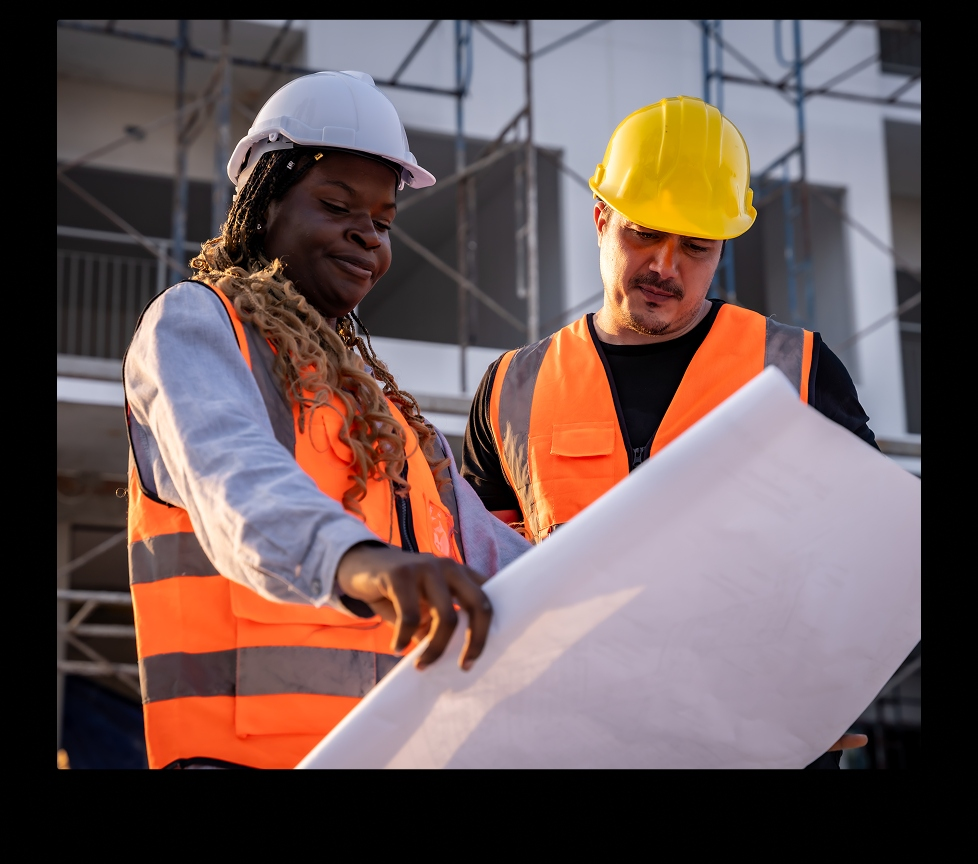
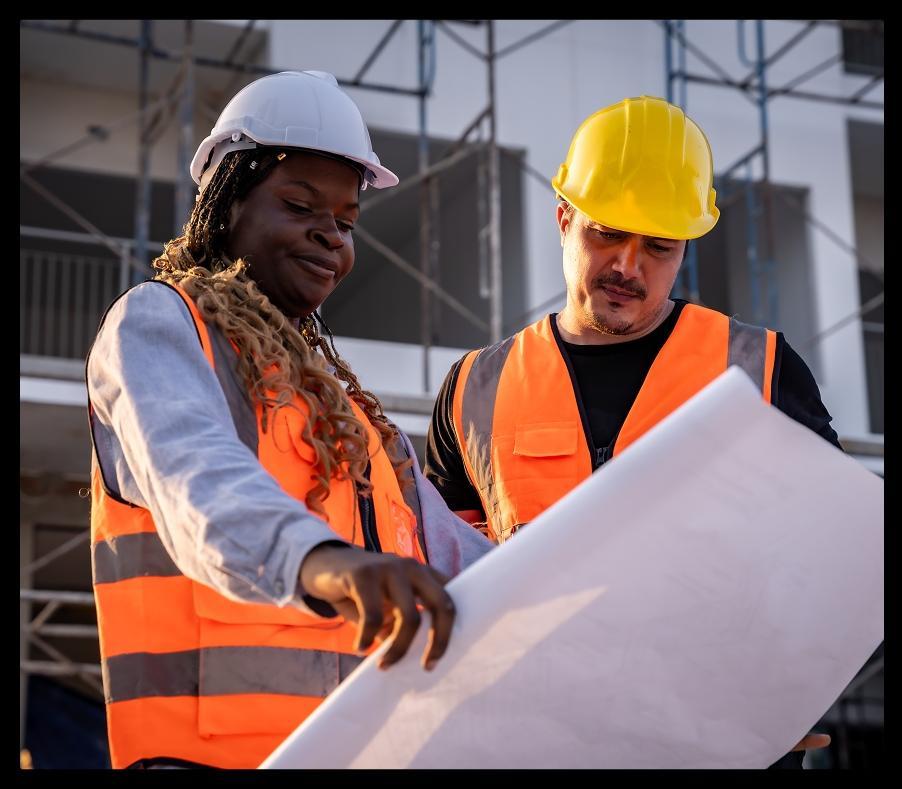
Update hero layout with precise opacity and animation

diff --git a/src/pages/HomePage.jsx b/src/pages/HomePage.jsx
@@ -3,6 +3,8 @@ import { motion } from "framer-motion";
 import { ORANGE, BLACK, DARK, CARD, BORDER, TEXT, MUTED, SUBTLE } from "../theme";
 import { Reveal } from "../components/Reveal";
 import aboutWorkersImg from "../assets/images/about-workers.jpg";
+import partnerWorkersImg from "../assets/images/partner-workers.jpg";
+import gambaltHeroImg from "../assets/images/gambalt-hero.jpg";
 
 export const HomePage = ({ setPage }) => {
   const stats = [{ n: "15+", l: "Years Experience" }, { n: "250+", l: "Projects Completed" }, { n: "50+", l: "Active Projects" }, { n: "100%", l: "Safety Record" }];
@@ -45,36 +47,59 @@ export const HomePage = ({ setPage }) => {
   return (
     <div>
       {/* Hero */}
-      <div className="hero-bg" style={{ paddingTop: 160, paddingBottom: 64 }}>
-        <div className="hero-shape hero-shape-tr" />
-        <div className="hero-shape hero-shape-br" />
-        <div className="hero-shape hero-shape-left-orange" />
-        <div className="hero-shape hero-shape-left-dark" />
-        <div className="hero-ruler" />
-        <div className="hero-circle"><div style={{width:4, height:4, borderRadius:'50%', background:ORANGE, margin:'auto', marginTop:3}}/></div>
-        <div className="hero-scroll-btn" onClick={() => window.scrollTo({top: 800, behavior: 'smooth'})}>
+      <div className="hero-bg" style={{ paddingTop: 160, paddingBottom: 64, backgroundColor: "#000" }}>
+        {/* Animated Background Image */}
+        <div 
+          className="hero-ken-burns" 
+          style={{ 
+            position: "absolute", 
+            inset: -20, 
+            backgroundSize: "cover", 
+            backgroundPosition: "center", 
+            backgroundImage: `url(${gambaltHeroImg})`, 
+            zIndex: 0 
+          }} 
+        />
+
+        {/* Left side text background dark gradient - fades before crossing the black line */}
+        <div style={{ position: "absolute", inset: 0, background: "linear-gradient(to right, rgba(10,10,10,0.95) 0%, rgba(10,10,10,0.7) 40%, transparent 60%)", zIndex: 1 }} />
+        
+        {/* Solid Black chevron line (no overlay/transparency effect) */}
+        <div style={{ position: "absolute", inset: 0, background: "#111", clipPath: "polygon(58% 0, 62% 0, 49% 50%, 62% 100%, 58% 100%, 45% 50%)", zIndex: 1 }} />
+        
+        {/* Orange right-hand side overlay (Primary Color - transparent overlay effect) */}
+        <div style={{ position: "absolute", inset: 0, background: "rgba(232, 84, 26, 0.3)", clipPath: "polygon(100% 0, 62% 0, 49% 50%, 62% 100%, 100% 100%)", zIndex: 1 }} />
+
+        <div className="hero-scroll-btn" onClick={() => window.scrollTo({top: 800, behavior: 'smooth'})} style={{ zIndex: 2 }}>
           <svg width="24" height="24" viewBox="0 0 24 24" fill="none" stroke="currentColor" strokeWidth="2" strokeLinecap="round" strokeLinejoin="round"><path d="M12 5v14M19 12l-7 7-7-7"/></svg>
         </div>
+        
         <div className="container" style={{ position: "relative", zIndex: 2 }}>
-          <div style={{ maxWidth: 700 }}>
+          <div style={{ maxWidth: 640 }}>
             <Reveal x={-30}>
-              <div className="orange-tag" style={{ marginBottom: 20 }}>BUILDING NIGERIA'S INFRASTRUCTURE</div>
+              <div style={{ display: "flex", flexDirection: "column", gap: 12, marginBottom: 20 }}>
+                <div style={{ width: 24, height: 24, borderRadius: "50%", border: `1px solid rgba(232,84,26,0.3)`, display: "flex", alignItems: "center", justifyContent: "center" }}>
+                   <div style={{ width: 6, height: 6, borderRadius: "50%", background: ORANGE }}></div>
+                </div>
+                <div style={{ color: "#FFF", fontSize: 13, fontWeight: 700, letterSpacing: 2, textTransform: "uppercase" }}>
+                  GREAT EXPERIENCE IN BUILDING
+                </div>
+              </div>
             </Reveal>
             <Reveal delay={0.2} x={-50}>
-              <h1 className="heading-font hero-title" style={{ fontSize: 80, fontWeight: 900, lineHeight: 0.95, textTransform: "uppercase", marginBottom: 24, color: "#fff" }}>
-                BUILDING<br />NIGERIA'S<br /><span style={{ color: ORANGE }}>FUTURE TODAY</span>
+              <h1 className="heading-font hero-title" style={{ fontSize: 72, fontWeight: 900, lineHeight: 1.05, marginBottom: 24, color: "#fff", textTransform: "uppercase" }}>
+                We Building<br />For A Better<br />Futures
               </h1>
             </Reveal>
             <Reveal delay={0.4} y={20}>
-              <p className="hero-subtitle-fix" style={{ fontSize: 16, maxWidth: 480, lineHeight: 1.7, marginBottom: 36 }}>
-                Gambalt is a premier civil engineering and infrastructure consultancy delivering industrial-strength solutions across Nigeria. We focus on long-term structural integrity and seamless project execution.
+              <p style={{ fontSize: 16, color: "rgba(255,255,255,0.8)", lineHeight: 1.7, marginBottom: 36, maxWidth: 500 }}>
+                It is a long established fact that a reader will be distracted the readable content of a page when looking at layout the point of using
               </p>
             </Reveal>
             <Reveal delay={0.6} y={10}>
-              <div style={{ display: "flex", gap: 16, flexWrap: "wrap" }}>
-                <button className="btn-orange" onClick={() => setPage("contact")}>CONSULTATION →</button>
-                <button className="btn-outline" onClick={() => setPage("quote")}>REQUEST A QUOTE</button>
-              </div>
+              <button className="btn-orange" onClick={() => setPage("contact")} style={{ padding: "16px 36px", fontSize: 14 }}>
+                LET'S GET STARTED <span style={{ marginLeft: 8 }}>→</span>
+              </button>
             </Reveal>
           </div>
           <motion.div 
@@ -215,13 +240,16 @@ export const HomePage = ({ setPage }) => {
       </section>
 
       {/* Why Partner */}
-      <section style={{ background: DARK, padding: "80px 0" }}>
+      <section style={{ background: DARK, padding: "100px 0" }}>
         <div className="container">
-          <div style={{ display: "grid", gridTemplateColumns: "1fr 1fr", gap: 64, alignItems: "center" }} className="grid-2">
+          <div style={{ display: "grid", gridTemplateColumns: "1.1fr 0.9fr", gap: 80, alignItems: "center" }} className="grid-2">
             <div>
               <Reveal x={-30}>
-                <div className="section-tag">THE GAMBALT ADVANTAGE</div>
-                <h2 className="heading-font" style={{ fontSize: 48, fontWeight: 900, lineHeight: 1, textTransform: "uppercase", marginBottom: 32, color: TEXT }}>
+                <div style={{ display: "flex", alignItems: "center", gap: 12, marginBottom: 16, color: ORANGE, fontSize: 12, fontWeight: 700, letterSpacing: 2 }}>
+                  <div style={{ width: 40, height: 2, background: ORANGE }} />
+                  THE GAMBALT ADVANTAGE
+                </div>
+                <h2 className="heading-font" style={{ fontSize: 48, fontWeight: 900, lineHeight: 1.1, textTransform: "uppercase", marginBottom: 40, color: TEXT }}>
                   WHY PARTNER WITH <span style={{ color: ORANGE }}>GAMBALT</span>
                 </h2>
               </Reveal>
@@ -232,15 +260,50 @@ export const HomePage = ({ setPage }) => {
                 viewport={{ once: true }}
               >
                 {[
-                  { title: "Government-Ready Vendor", desc: "Fully registered with relevant government bodies, making us an ideal choice for municipal, state, and federal infrastructure contracts." },
-                  { title: "Heavy Machinery Fleet", desc: "Unlike firms that rely on rentals, Gambalt owns a massive fleet of heavy construction and infrastructure equipment." },
-                  { title: "Uncompromising Safety", desc: "Zero-incident culture: every site follows strict HSE standards and our project managers prioritize safety at every level." },
-                ].map(r => (
-                  <motion.div key={r.title} variants={itemVariants} style={{ display: "flex", gap: 16, marginBottom: 28 }}>
-                    <div style={{ width: 4, background: ORANGE, flexShrink: 0 }} />
+                  { 
+                    title: "GOVERNMENT-READY VENDOR", 
+                    desc: "Fully compliant, licensed, and vetted to handle large-scale municipal, state, and federal infrastructure contracts with complete transparency.",
+                    icon: (
+                      <svg width="24" height="24" viewBox="0 0 24 24" fill="none" stroke={ORANGE} strokeWidth="2" strokeLinecap="round" strokeLinejoin="round">
+                        <path d="M14 2H6a2 2 0 0 0-2 2v16a2 2 0 0 0 2 2h12a2 2 0 0 0 2-2V8z"></path>
+                        <polyline points="14 2 14 8 20 8"></polyline>
+                        <line x1="16" y1="13" x2="8" y2="13"></line>
+                        <line x1="16" y1="17" x2="8" y2="17"></line>
+                        <polyline points="10 9 9 9 8 9"></polyline>
+                      </svg>
+                    )
+                  },
+                  { 
+                    title: "HEAVY MACHINERY FLEET", 
+                    desc: "We own and operate a massive fleet of modern excavators, cranes, graders, and loaders, eliminating rental delays and cutting costs.",
+                    icon: (
+                      <svg width="24" height="24" viewBox="0 0 24 24" fill="none" stroke={ORANGE} strokeWidth="2" strokeLinecap="round" strokeLinejoin="round">
+                        <rect x="3" y="3" width="18" height="18" rx="2" ry="2"></rect>
+                        <circle cx="8.5" cy="8.5" r="1.5"></circle>
+                        <polyline points="21 15 16 10 5 21"></polyline>
+                      </svg>
+                    )
+                  },
+                  { 
+                    title: "UNCOMPROMISING SAFETY", 
+                    desc: "Industrial-grade safety protocols enforced on every site. Zero compromises when it comes to the wellbeing of our workers and the structural integrity of the build.",
+                    icon: (
+                      <svg width="24" height="24" viewBox="0 0 24 24" fill="none" stroke={ORANGE} strokeWidth="2" strokeLinecap="round" strokeLinejoin="round">
+                        <path d="M20 18v-3c0-4.4-3.6-8-8-8s-8 3.6-8 8v3"/>
+                        <path d="M12 7V3"/>
+                        <path d="M3 18h18"/>
+                        <path d="M21 18v2H3v-2"/>
+                      </svg>
+                    )
+                  },
+                ].map((r, i) => (
+                  <motion.div key={r.title} variants={itemVariants} style={{ display: "flex", gap: 24, marginBottom: 32 }}>
+                    <div style={{ width: 64, height: 64, background: "rgba(255,255,255,0.03)", border: "1px solid rgba(255,255,255,0.1)", display: "flex", alignItems: "center", justifyContent: "center", flexShrink: 0 }}>
+                      {r.icon}
+                    </div>
                     <div>
-                      <h4 className="heading-font" style={{ fontSize: 16, fontWeight: 700, textTransform: "uppercase", color: TEXT, marginBottom: 6 }}>{r.title}</h4>
-                      <p style={{ fontSize: 13, color: SUBTLE, lineHeight: 1.6 }}>{r.desc}</p>
+                      <h4 className="heading-font" style={{ fontSize: 18, fontWeight: 700, textTransform: "uppercase", color: TEXT, marginBottom: 8 }}>{r.title}</h4>
+                      <p style={{ fontSize: 14, color: SUBTLE, lineHeight: 1.6 }}>{r.desc}</p>
                     </div>
                   </motion.div>
                 ))}
@@ -248,17 +311,30 @@ export const HomePage = ({ setPage }) => {
             </div>
             <Reveal scale={0.95}>
               <div style={{ position: "relative" }}>
-                <img src="https://images.unsplash.com/photo-1581094488379-6a10d4e6f5f3?w=700&q=80" alt="team" style={{ width: "100%", height: 420, objectFit: "cover" }} />
+                {/* Decorative subtle circle behind the quote box */}
+                <div style={{ position: "absolute", bottom: -60, left: -80, width: 200, height: 200, borderRadius: "50%", background: "rgba(255,255,255,0.02)", zIndex: 0 }} />
+                
+                <img src={partnerWorkersImg} alt="Gambalt partners" style={{ width: "100%", height: 500, objectFit: "cover", position: "relative", zIndex: 1, border: `1px solid ${BORDER}` }} />
+                
                 <motion.div 
-                  initial={{ opacity: 0, x: 20 }}
-                  whileInView={{ opacity: 1, x: 0 }}
+                  initial={{ opacity: 0, x: -20, y: 20 }}
+                  whileInView={{ opacity: 1, x: 0, y: 0 }}
                   transition={{ delay: 0.5 }}
-                  style={{ position: "absolute", bottom: 24, left: 24, background: CARD, border: `1px solid ${BORDER}`, padding: "20px 24px", maxWidth: 320 }}
+                  style={{ position: "absolute", bottom: -24, left: -40, background: ORANGE, padding: "32px", maxWidth: 360, zIndex: 10, boxShadow: "0 20px 40px rgba(0,0,0,0.5)" }}
                 >
-                  <div style={{ fontSize: 13, color: MUTED, fontStyle: "italic", lineHeight: 1.6, marginBottom: 12 }}>
-                    "We don't just build structures — we build the foundations the Nigerian economy depends on."
+                  <div style={{ fontSize: 64, color: "rgba(255,255,255,0.2)", lineHeight: 0.5, marginBottom: 12, fontWeight: 900, fontFamily: "serif" }}>"</div>
+                  <div style={{ fontSize: 16, color: "#FFF", fontWeight: 500, lineHeight: 1.6, marginBottom: 24 }}>
+                    "We don't just build structures; we build the foundations for Nigeria's economic growth."
                   </div>
-                  <div style={{ color: ORANGE, fontSize: 12, fontWeight: 700 }}>ENGR. SAMUEL BJO — MANAGING DIRECTOR</div>
+                  <div style={{ display: "flex", alignItems: "center", gap: 16 }}>
+                    <div style={{ width: 48, height: 48, borderRadius: "50%", background: BLACK, color: "#FFF", display: "flex", alignItems: "center", justifyContent: "center", fontWeight: "bold", fontSize: 16 }}>
+                      CE
+                    </div>
+                    <div>
+                      <div style={{ color: "#FFF", fontSize: 14, fontWeight: 700, textTransform: "uppercase", letterSpacing: 1 }}>CHIEF ENGINEER</div>
+                      <div style={{ color: "rgba(255,255,255,0.7)", fontSize: 12, textTransform: "uppercase", marginTop: 4 }}>GAMBALT CONSULT</div>
+                    </div>
+                  </div>
                 </motion.div>
               </div>
             </Reveal>

diff --git a/src/index.css b/src/index.css
@@ -135,7 +135,6 @@ body[data-theme='light'] {
 
   .hero-bg {
     color: #fff;
-    background: url('https://images.unsplash.com/photo-1541888946425-d81bb19240f5?w=1600&q=80') center/cover no-repeat;
     min-height: 85vh;
     display: flex;
     align-items: center;
@@ -143,36 +142,19 @@ body[data-theme='light'] {
     overflow: hidden;
   }
 
+  @keyframes backgroundPan {
+    0% { transform: scale(1) translateX(0); }
+    50% { transform: scale(1.08) translateX(-1%); }
+    100% { transform: scale(1) translateX(0); }
+  }
+
+  .hero-ken-burns {
+    animation: backgroundPan 25s ease-in-out infinite;
+  }
+
   .hero-shape {
     position: absolute;
     z-index: 0;
-  }
-
-  .hero-shape-tr {
-    top: 0; right: 0; bottom: 0; left: 0;
-    background: var(--orange);
-    clip-path: polygon(80% 0, 100% 0, 100% 45%);
-    opacity: 0.95;
-  }
-
-  .hero-shape-br {
-    top: 0; right: 0; bottom: 0; left: 0;
-    background: var(--orange);
-    clip-path: polygon(80% 100%, 100% 100%, 100% 55%);
-    opacity: 0.95;
-  }
-
-  .hero-shape-left-orange {
-    top: 0; left: 0; bottom: 0; right: 0;
-    background: var(--orange);
-    clip-path: polygon(0 0, 65% 0, 85% 50%, 65% 100%, 0 100%);
-    opacity: 0.95;
-  }
-
-  .hero-shape-left-dark {
-    top: 0; left: 0; bottom: 0; right: 0;
-    background: rgba(15, 15, 15, 0.95);
-    clip-path: polygon(0 0, 58% 0, 78% 50%, 58% 100%, 0 100%);
   }
 
   .hero-ruler {
